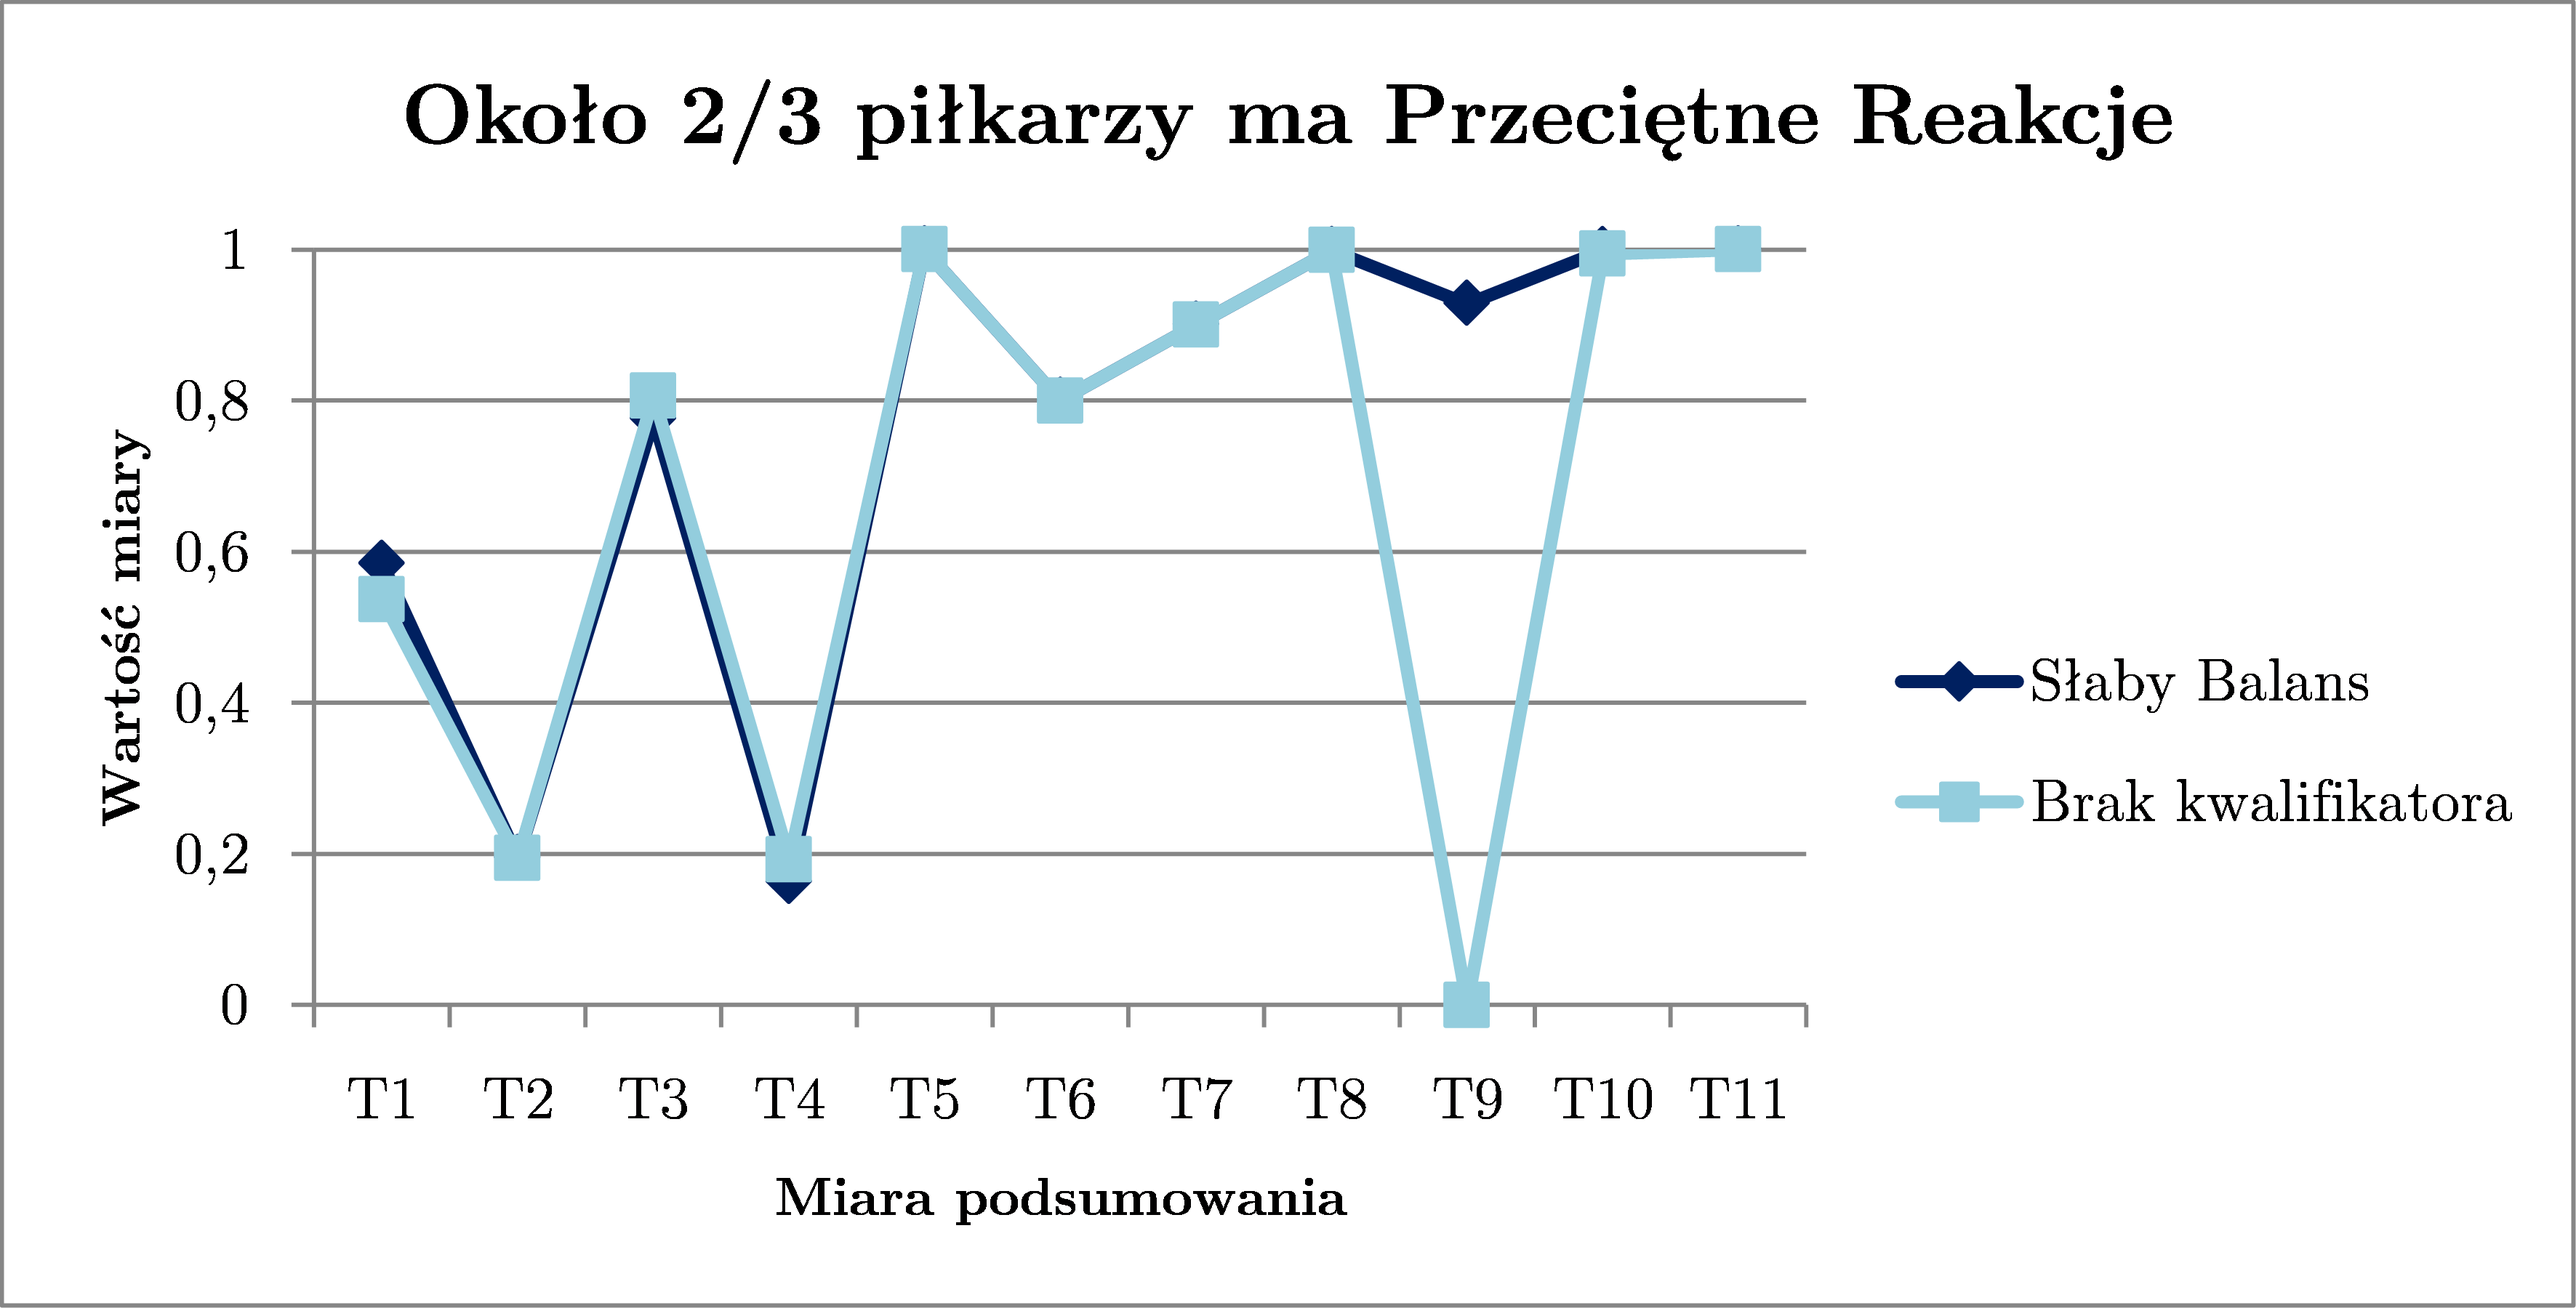
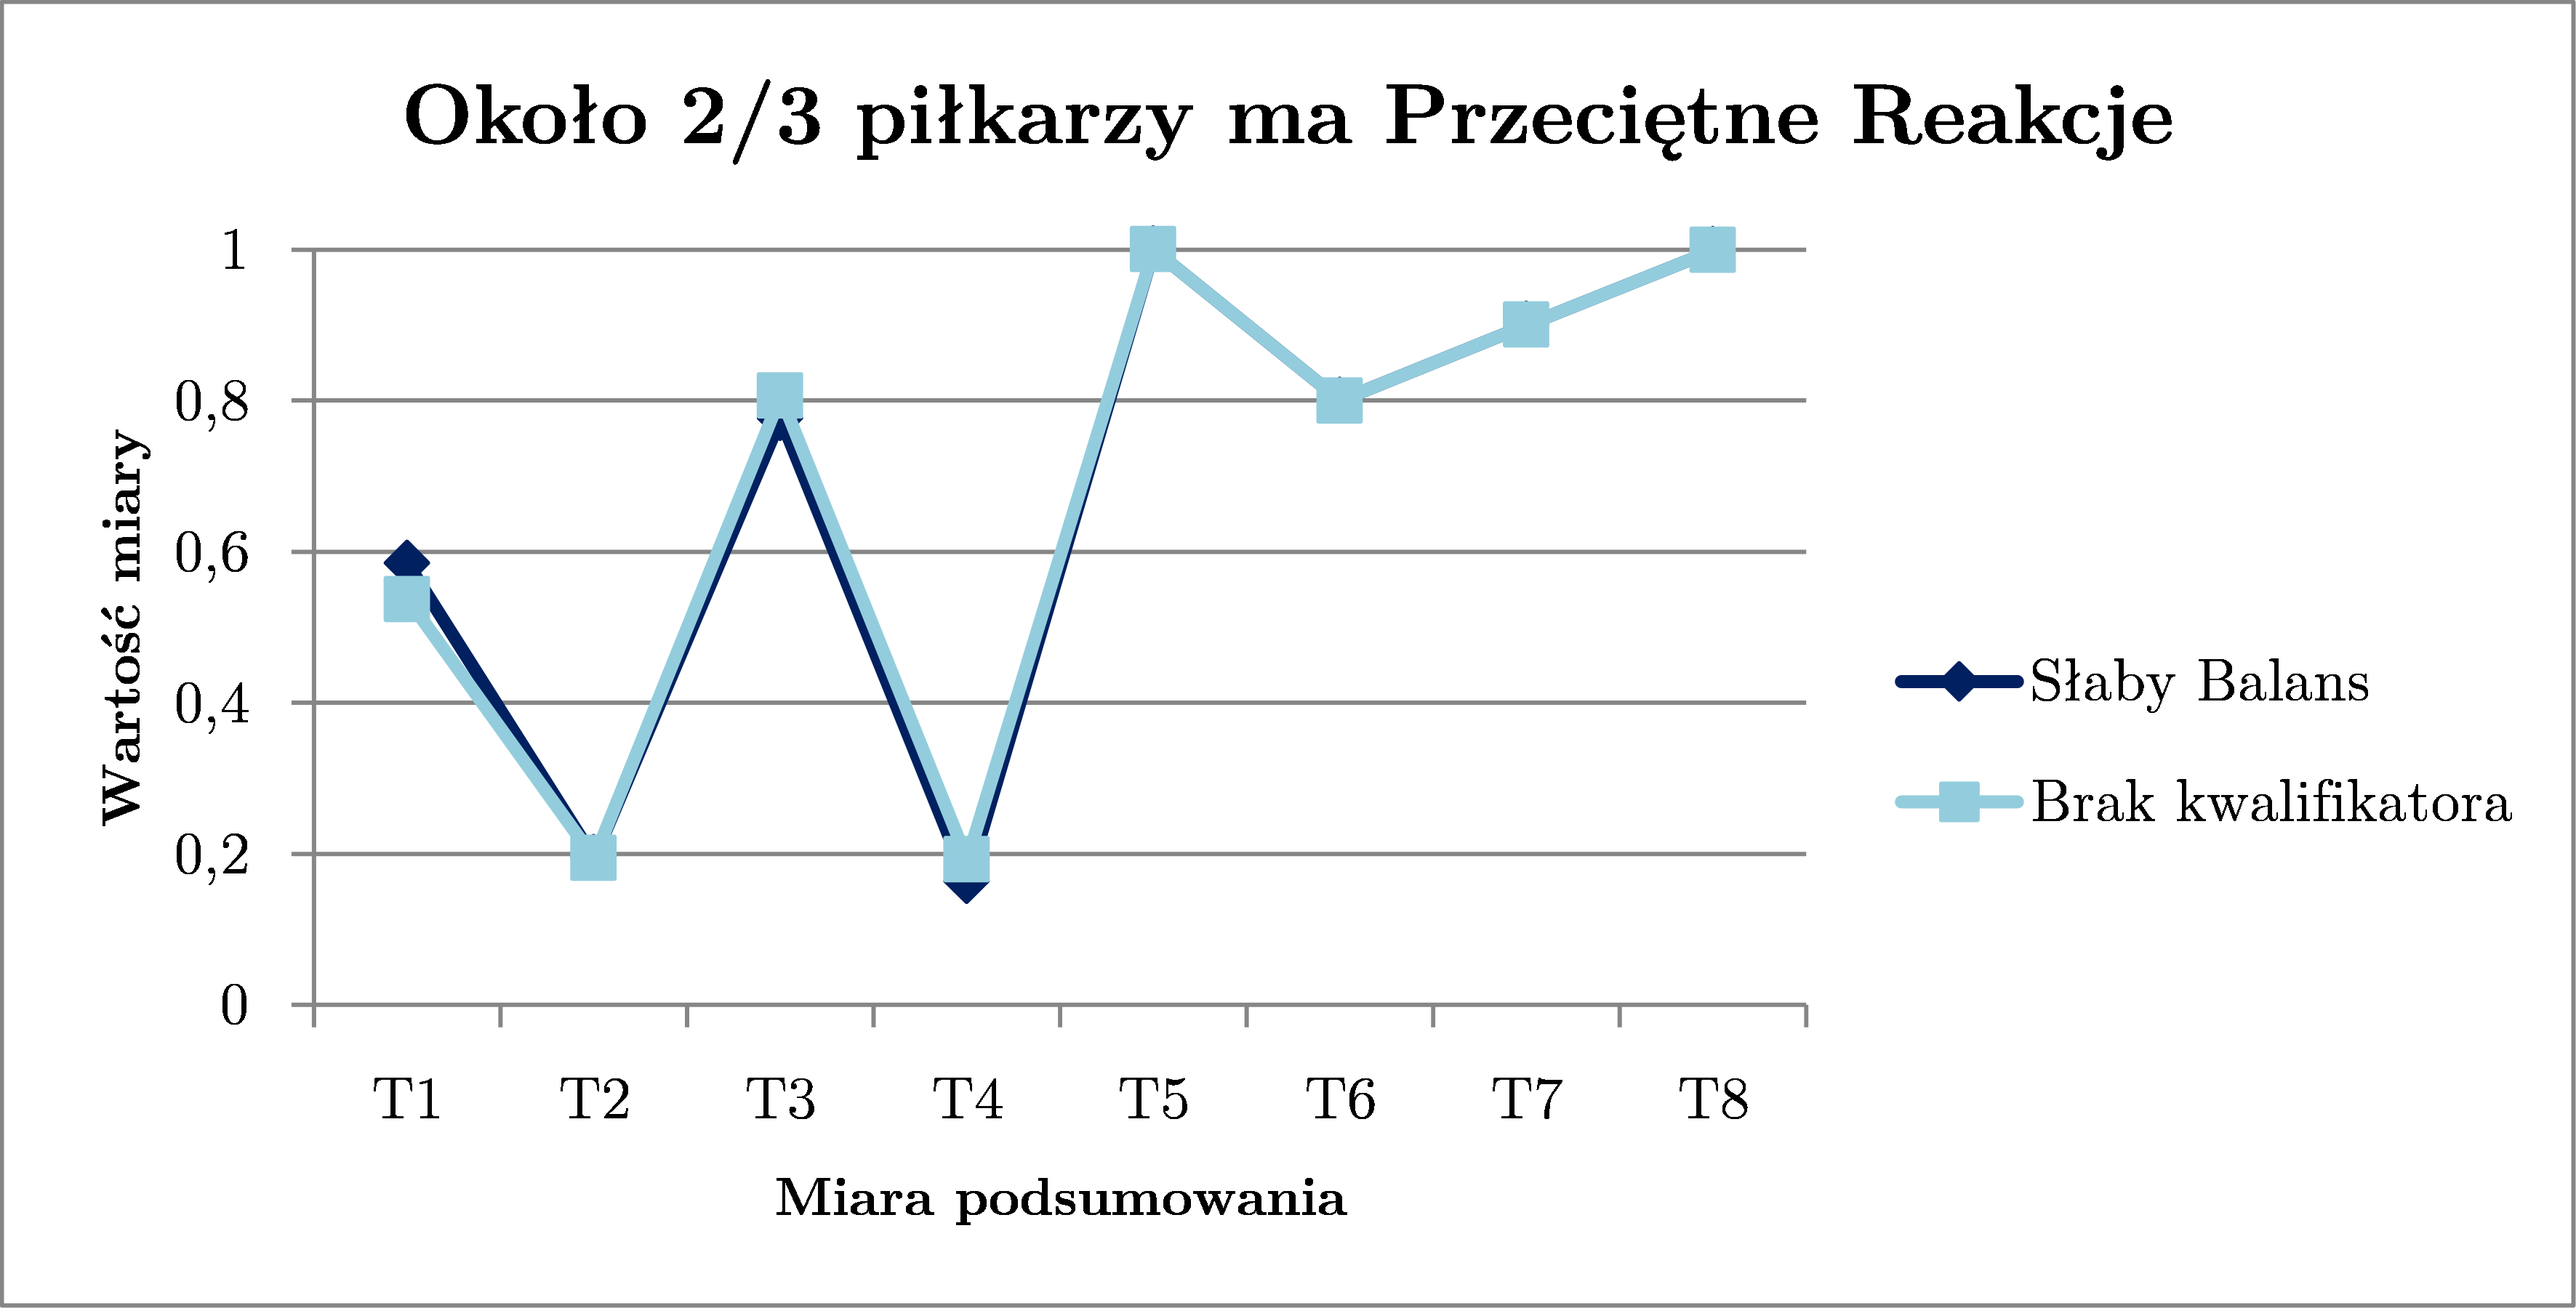
Works on study2

diff --git a/Zadanie 2 - Sprawozdanie/Zadanie2.tex b/Zadanie 2 - Sprawozdanie/Zadanie2.tex
@@ -669,7 +669,7 @@ W tym badaniu wygenerowaliśmy 2 komunikaty, które skupiały się na:
 	\item Przeciętnych Reakcjach,
 	\item Standardowej Wadze.
 \end{enumerate}
-Porównywaliśmy wpływ obecności kwantyfikatora (odpowiednio Słabego Bilansu oraz Niskiego Wzrostu) lub jego braku na wartości miar. Porównywaliśmy zarówno jednakowe jak i różniące się kwantyfikatory, tak, by miara T1 nie wynosiła 0.
+Porównywaliśmy wpływ obecności kwalifikatora (odpowiednio Słabego Bilansu oraz Niskiego Wzrostu) lub jego braku na wartości miar. Porównywaliśmy zarówno jednakowe jak i różniące się kwantyfikatory, tak, by miara T1 nie wynosiła 0.
 
 \subsubsection{Eksperyment 2.1}
 
@@ -694,9 +694,6 @@ Porównywaliśmy wpływ obecności kwantyfikatora (odpowiednio Słabego Bilansu 
 		T6 & 0.8 & 0.8 \\
 		T7 & 0.9 & 0.9 \\
 		T8 & 0.999 & 0.999 \\
-		T9 & 0.928 & 0.928  \\
-		T10 & 0.999 & 0.999 \\
-		T11 & 1 & 1 \\
 		\hline
 	\end{tabular}
 	\caption{Tabela przedstawiająca wyniki Eksperymentu 2.1 - kwantyfikator względny (około 2/3 piłkarzy)}
@@ -724,9 +721,6 @@ Porównywaliśmy wpływ obecności kwantyfikatora (odpowiednio Słabego Bilansu 
 		T6 & 0.987 & 0.062 \\
 		T7 & 0.994 & 0.063 \\
 		T8 & 0.999 & 0.999 \\
-		T9 & 0.928 & 0.928 \\
-		T10 & 0.999 & 0.999 \\
-		T11 & 1 & 1 \\
 		\hline
 	\end{tabular}
 	\caption{Tabela przedstawiająca wyniki Eksperymentu 2.1 - kwantyfikator bezwzględny}
@@ -756,9 +750,6 @@ Porównywaliśmy wpływ obecności kwantyfikatora (odpowiednio Słabego Bilansu 
 		T6 & 0.65 & 0.65 & 0.8 \\
 		T7 & 0.7 & 0.7 & 0.9 \\
 		T8 & 1 & 1 & 1 \\
-		T9 & 0.966 & 0 & 0 \\
-		T10 & 1 & 0.994 & 0.994 \\
-		T11 & 1 & 1 & 1 \\
 		\hline
 	\end{tabular}
 	\caption{Tabela przedstawiająca wyniki Eksperymentu 2.2 - kwantyfikator względny}
@@ -786,9 +777,6 @@ Porównywaliśmy wpływ obecności kwantyfikatora (odpowiednio Słabego Bilansu 
 		T6 & 0.99 & 0.062 \\
 		T7 & 0.992 & 0.063 \\
 		T8 & 1 & 1 \\
-		T9 & 0.966 & 0 \\
-		T10 & 1 & 0.994 \\
-		T11 & 1 & 1 \\
 		\hline
 	\end{tabular}
 	\caption{Tabela przedstawiająca wyniki Eksperymentu 2.2 - kwantyfikator bezwzględny}
@@ -874,23 +862,30 @@ Miara $T1$, obrazująca prawdziwość danego podsumowania, zmieniała się wraz 
 \newline
 
 Miary $T6$ i $T7$ opisują sam kwantyfikator, a dokładnie jego precyzyjność. Wyraźnie widać, że miara mniej niż 1/4 opisuje większy zbiór niż reszta zaproponowanych przez nas kwantyfikatorów względnych. Bardzo nieprecyzyjny jest kwantyfikator bezwzględny więcej niż 1000. Wartości tych miar są identyczne dla wszystkich podsumowań i zależą tylko od kwantyfikatora.
+\newline
 
 Miary $T2-T5$ oraz $T8-T11$ nie zmieniały swoich wartości w zależności od użytego kwantyfikatora, co nie jest zaskakujące, mając na uwadze braku wykorzystania kwantyfikatora w tych wzorach. 
 
-\subsection{Wpływ podziału tekstów na zbiory treningowe i testowe na klasyfikację}
-W przeważającej większości najwyższe wyniki osiągane były przy 80\% zbioru treningowego. Tylko w jednym przypadku użycie 40\% zbioru treningowego pozwoliło osiągnąć najwyższą skuteczności (pierwszy sposób ekstrakcji, kategoria topics). Zazwyczaj jednak ten dobór procentowy okazywał się być najsłabszym ze względu na niedouczenie. 
+\subsection{Wpływ kwalifikatora na miary}}
+Ciężko jest porównać miarę $T1$ dla kwalifikatora lub jego braku - pracujemy wtedy na innych zbiorach. Wartości dla kwantyfikatorów względnych mogą się zmienić nieznacznie bądź drastycznie. Prawie na pewno zmienią się wartości dla kwantyfikatorów bezwzględnych (zakładając, że są odpowiednio zdefiniowane). Porównując wyniki skupiliśmy się tylko na tych, gdzie wartości miary $T1$ były większe od zera, przez co miary $T6$ i $T7$ potrafią się różnić, co jednak nie ma nic wspólnego z kwalifikatorem.
 \newline
+
+Miary $T2, T5, T8$ oraz $T11$ nie zmieniały swoich wartości w zależności od użytego kwantyfikatora, co nie jest zaskakujące, mając na uwadze braku wykorzystania kwantyfikatora w tych wzorach. 
 
 \subsection{Wpływ konkretnych cech na klasyfikację}
 Podczas klasyfikacji dla kategorii topics, zauważyliśmy, że liczba słów oraz liczba słów, których długość nie przekracza 3 znaków mają negatywny wpływ na osiąganą skuteczność. Świadczyć może o tym fakt, iż bez ww. cech osiągnęliśmy najwyższą skuteczność. Dużo ważniejsze okazały się cechy związane z unikalnością słów oraz wielkimi literami. \newline
 
 Podczas klasyfikacji dla kategorii authors najważniejsza okazała się cecha odpowiadająca za liczbę unikalnych słów. Bez niej skuteczność spadła z 71\% na 47\%. Podobnie jak w przypadku kategorii topics, cechy sprawdzające liczbę słów oraz liczbę krótkich słów osłabiały nasze wyniki - dzięki wyłączeniu ich, uzyskaliśmy wyższe wyniki niż w przypadku wszystkich cech. 
 
-	
+
 \section{Wnioski}
 \begin{itemize}
 	\item Należy dobierać precyzyjnie wartości przy funkcjach przynależności, aby uzyskać miarodajne wyniki.
 	\item Parametry dla kwantyfikatora absolutnego muszą być precyzyjnie dobrane do typu i rodzaju bazy - baza składająca się z dużej liczby elementów i dużej liczby atrybutów może potrzebować mniejszych wartości. 
+	\item Dodatkowy sumaryzator "i" oraz "lub" ma negatywny wpływ na wartości miar $T_2$ - $T_5$.
+	\item Dodatkowy sumaryzator "lub" osiąga wyższe wartości miar, niż sumaryzator "i"
+	\item Z powodu braku dodatkowych kwalifikatorów w naszym projekcie, miara $T_11$ nie dostarcza istotnych informacji
+	\item Miara $T_1$ zazwyczaj wystarcza do rozstrzygnięcia, które podsumowanie jest lepsze
 \end{itemize}
 
 	

diff --git a/Zadanie 2/ViewModel/MainViewModel.cs b/Zadanie 2/ViewModel/MainViewModel.cs
@@ -89,9 +89,13 @@ namespace ViewModel
                 message += "T6 = " + Math.Round(Measures.DegreeOfQuantifierImprecision(quantifier, dataContext.FifaPlayer.ToList()), 3) + "; ";
                 message += "T7 = " + Math.Round(Measures.DegreeOfQuantifierCardinality(quantifier, dataContext.FifaPlayer.ToList()), 3) + "; ";
                 message += "T8 = " + Math.Round(Measures.DegreeOfSummarizerCardinality(SelectedFirstSummarizer, dataContext.FifaPlayer.ToList()), 3) + "; ";
-                message += "T9 = " + Math.Round(Measures.DegreeOfQualifierImprecision(SelectedQualifier, dataContext.FifaPlayer.ToList()), 3) + "; ";
-                message += "T10 = " + Math.Round(Measures.DegreeOfQualifierCardinality(SelectedQualifier, dataContext.FifaPlayer.ToList()), 3) + "; ";
-                message += "T11 = " + Math.Round(Measures.LengthOfQualifier(quantifier), 3) + '\n';
+
+                if (SelectedQualifier.QuantifierName != "Każdy")
+                {
+                    message += "T9 = " + Math.Round(Measures.DegreeOfQualifierImprecision(SelectedQualifier, dataContext.FifaPlayer.ToList()), 3) + "; ";
+                    message += "T10 = " + Math.Round(Measures.DegreeOfQualifierCardinality(SelectedQualifier, dataContext.FifaPlayer.ToList()), 3) + "; ";
+                    message += "T11 = " + Math.Round(Measures.LengthOfQualifier(quantifier), 3) + '\n';
+                }
 
                 MessagesList.Add(message);
             }
@@ -126,9 +130,13 @@ namespace ViewModel
                 message += "T6 = " + Math.Round(Measures.DegreeOfQuantifierImprecision(quantifier, dataContext.FifaPlayer.ToList()), 3) + "; ";
                 message += "T7 = " + Math.Round(Measures.DegreeOfQuantifierCardinality(quantifier, dataContext.FifaPlayer.ToList()), 3) + "; ";
                 message += "T8 = " + Math.Round(Measures.DegreeOfSummarizerCardinality(ComplexSummarizer, dataContext.FifaPlayer.ToList()), 3) + "; ";
-                message += "T9 = " + Math.Round(Measures.DegreeOfQualifierImprecision(SelectedQualifier, dataContext.FifaPlayer.ToList()), 3) + "; ";
-                message += "T10 = " + Math.Round(Measures.DegreeOfQualifierCardinality(SelectedQualifier, dataContext.FifaPlayer.ToList()), 3) + "; ";
-                message += "T11 = " + Math.Round(Measures.LengthOfQualifier(quantifier), 3) + '\n';
+
+                if (SelectedQualifier.QuantifierName != "Każdy")
+                {
+                    message += "T9 = " + Math.Round(Measures.DegreeOfQualifierImprecision(SelectedQualifier, dataContext.FifaPlayer.ToList()), 3) + "; ";
+                    message += "T10 = " + Math.Round(Measures.DegreeOfQualifierCardinality(SelectedQualifier, dataContext.FifaPlayer.ToList()), 3) + "; ";
+                    message += "T11 = " + Math.Round(Measures.LengthOfQualifier(quantifier), 3) + '\n';
+                }
 
                 MessagesList.Add(message);
             }
